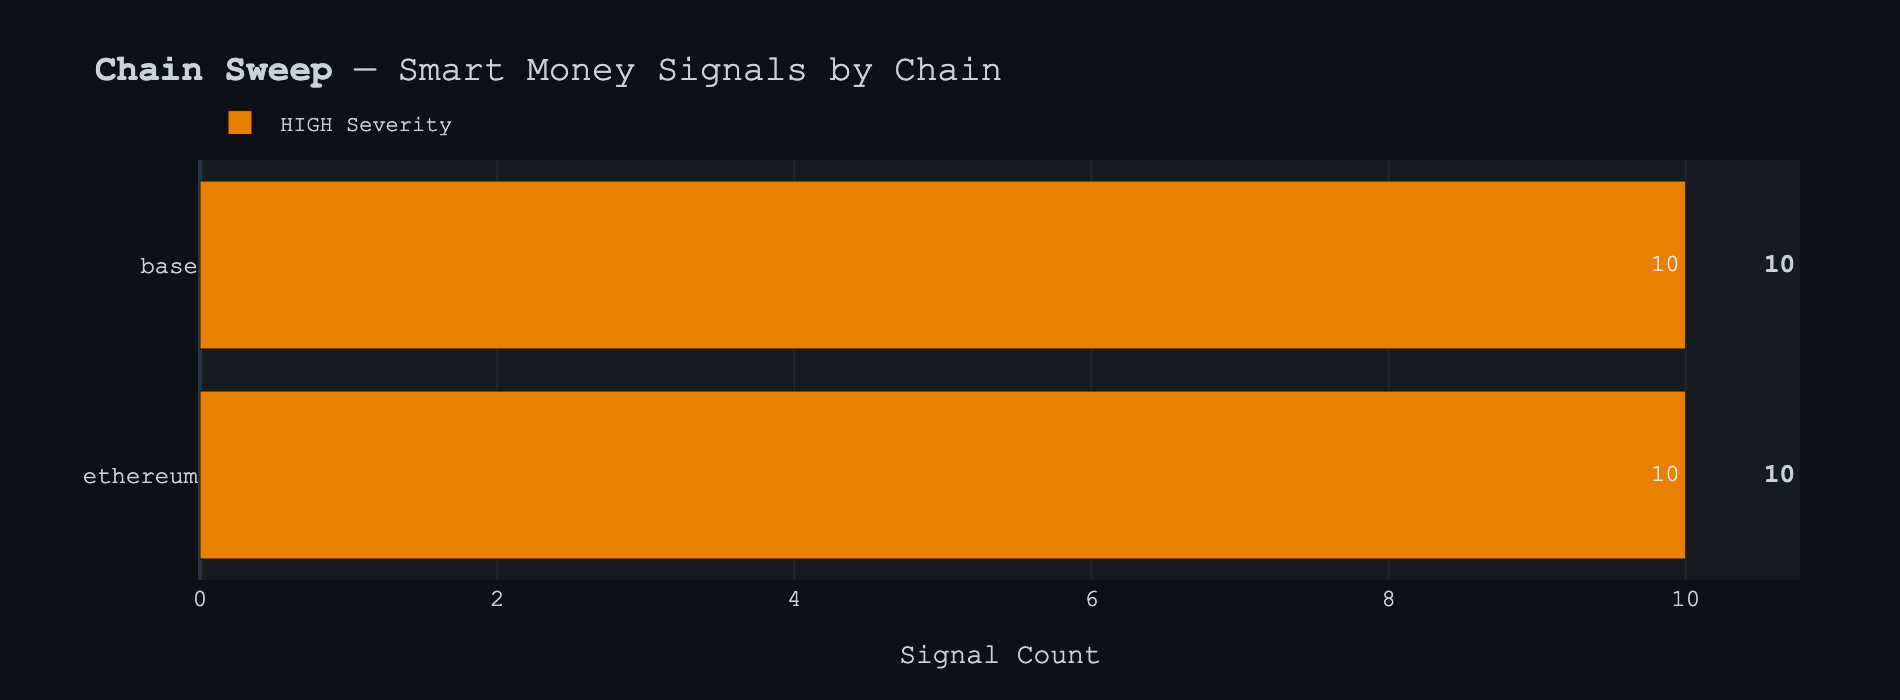
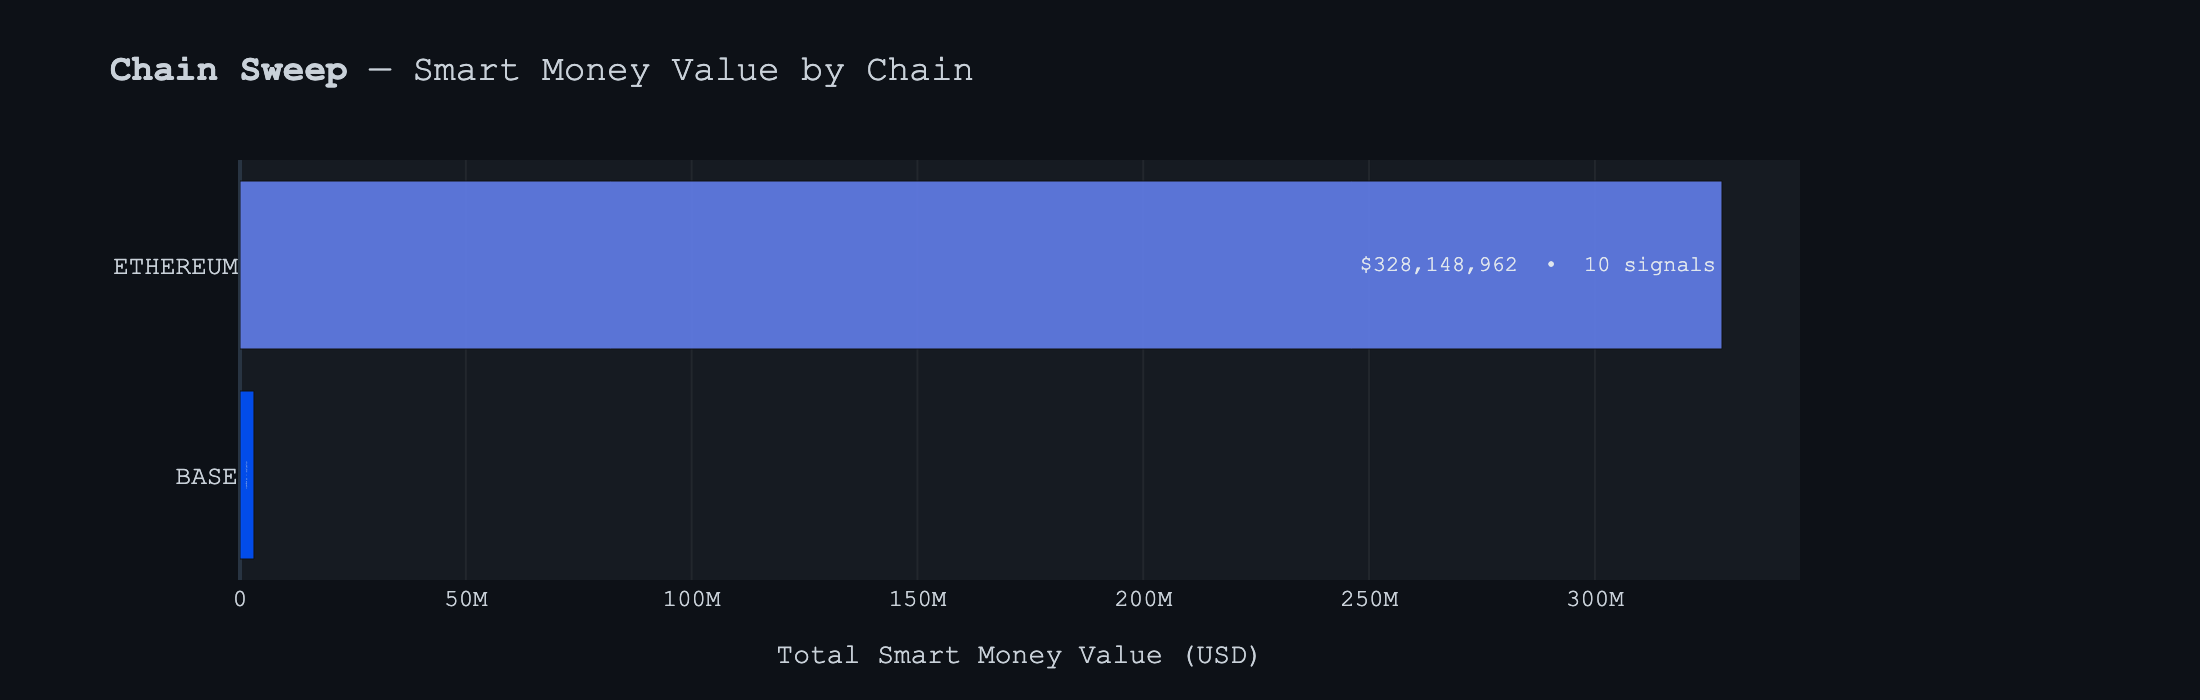
fix: chain comparison shows USD value not just count
- Ethereum M vs Base M now clearly visible
- Single bar chart with value + signal count labels
- Accepts both Signal objects and dict formats
- Much more meaningful comparison than equal-count bars

diff --git a/charts.py b/charts.py
@@ -204,77 +204,89 @@ def signal_timeline(signals: list[Signal]) -> str:
     return _save_chart(fig, "signal_timeline")
 
 
-def chain_comparison(data: dict[str, dict[str, Any]]) -> str:
+def chain_comparison(data) -> str:
     """
-    Generate a horizontal bar chart comparing SM signal counts across chains.
-    Only shows chains with data. Clean, readable, competition-grade.
+    Generate a dual-metric chain comparison: signal count + total USD value.
+    Accepts either dict[str, list[Signal]] or dict[str, dict].
+    Shows that chains differ in quality even when signal counts are similar.
     """
+    import re
+
     if not data:
         log.warning("No data for chain comparison")
         return ""
 
-    # Filter to chains with actual signals and sort by total
-    chains_with_data = {c: d for c, d in data.items() if d.get("total_signals", 0) > 0}
-    if not chains_with_data:
+    # Normalize input: accept both list[Signal] and dict formats
+    chain_stats = {}
+    for chain, val in data.items():
+        if isinstance(val, list):
+            # List of Signal objects
+            signals = val
+            count = len(signals)
+            total_usd = 0
+            for s in signals:
+                summary = s.summary if hasattr(s, 'summary') else str(s)
+                m = re.search(r'\$([0-9,]+)', summary)
+                if m:
+                    total_usd += float(m.group(1).replace(',', ''))
+            if count > 0:
+                chain_stats[chain] = {"count": count, "usd": total_usd}
+        elif isinstance(val, dict) and val.get("total_signals", 0) > 0:
+            chain_stats[chain] = {
+                "count": val.get("total_signals", 0),
+                "usd": val.get("total_usd", 0),
+            }
+
+    if not chain_stats:
         log.warning("No chains with signals for comparison")
         return ""
 
-    # Sort by total signals descending
-    sorted_chains = sorted(chains_with_data.keys(),
-                           key=lambda c: chains_with_data[c].get("total_signals", 0))
+    # Sort by USD value descending
+    sorted_chains = sorted(chain_stats.keys(),
+                           key=lambda c: chain_stats[c]["usd"], reverse=True)
+    sorted_chains.reverse()  # bottom-to-top for horizontal bars
+
+    chain_colors = {
+        "ethereum": "#627EEA", "base": "#0052FF", "solana": "#9945FF",
+        "arbitrum": "#28A0F0", "bnb": "#F0B90B", "polygon": "#8247E5",
+        "optimism": "#FF0420", "avalanche": "#E84142",
+    }
 
     fig = go.Figure()
 
-    # Stacked horizontal bars: HIGH, MEDIUM, CONVERGENCE
-    categories = [
-        ("high", "HIGH Severity", "#FF8C00"),
-        ("medium", "MEDIUM Severity", "#FFD700"),
-        ("convergence", "Convergence", "#00FF88"),
-        ("critical", "CRITICAL", "#FF0000"),
-    ]
+    colors = [chain_colors.get(c, "#4ECDC4") for c in sorted_chains]
+    usd_vals = [chain_stats[c]["usd"] for c in sorted_chains]
+    counts = [chain_stats[c]["count"] for c in sorted_chains]
 
-    for key, label, color in categories:
-        values = [chains_with_data.get(c, {}).get(key, 0) for c in sorted_chains]
-        if any(v > 0 for v in values):
-            fig.add_trace(go.Bar(
-                name=label,
-                y=sorted_chains,
-                x=values,
-                orientation="h",
-                marker_color=color,
-                opacity=0.9,
-                text=[str(v) if v > 0 else "" for v in values],
-                textposition="inside",
-                textfont=dict(size=12, color="white"),
-            ))
-
-    # Add total annotations on the right
-    for chain in sorted_chains:
-        total = chains_with_data[chain].get("total_signals", 0)
-        fig.add_annotation(
-            x=total + 0.5, y=chain,
-            text=f"<b>{total}</b>",
-            showarrow=False,
-            font=dict(size=13, color="#C9D1D9"),
-            xanchor="left",
-        )
+    fig.add_trace(go.Bar(
+        y=[c.upper() for c in sorted_chains],
+        x=usd_vals,
+        orientation="h",
+        marker=dict(color=colors, opacity=0.9),
+        text=[f"${v:,.0f}  •  {c} signals" for v, c in zip(usd_vals, counts)],
+        textposition="inside",
+        insidetextanchor="end",
+        textfont=dict(size=11, color="#E0E6ED"),
+        showlegend=False,
+    ))
 
     fig.update_layout(
         **LAYOUT_DEFAULTS,
         title=dict(
-            text="<b>Chain Sweep</b> — Smart Money Signals by Chain",
+            text="<b>Chain Sweep</b> — Smart Money Value by Chain",
             font=dict(size=18),
         ),
-        xaxis=dict(title="Signal Count", showgrid=True,
-                    gridcolor="rgba(150,150,150,0.1)"),
-        yaxis=dict(title=""),
-        barmode="stack",
-        width=950,
+        xaxis=dict(
+            title="Total Smart Money Value (USD)",
+            showgrid=True,
+            gridcolor="rgba(150,150,150,0.1)",
+        ),
+        yaxis=dict(showgrid=False, tickfont=dict(size=13)),
+        width=1100,
         height=max(350, len(sorted_chains) * 65 + 150),
-        showlegend=True,
-        legend=dict(orientation="h", yanchor="bottom", y=1.02,
-                    font=dict(size=11)),
+        showlegend=False,
     )
+    fig.update_layout(margin=dict(l=120, r=200, t=80, b=60))
 
     return _save_chart(fig, "chain_comparison")
 
